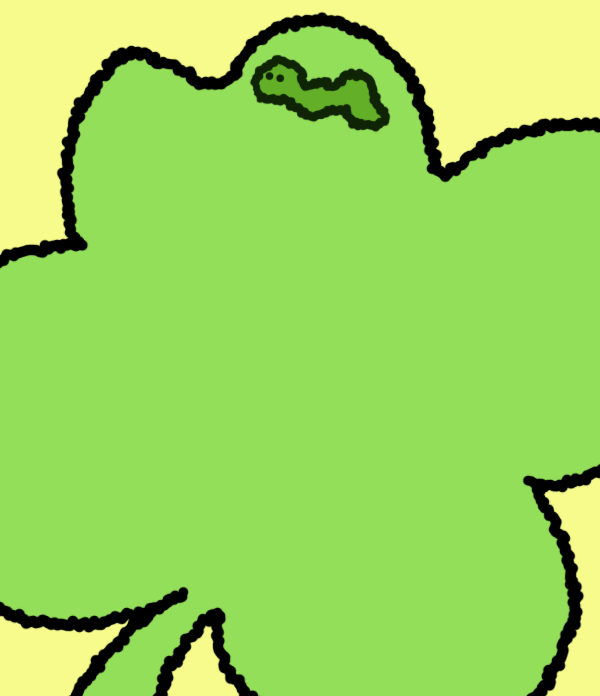
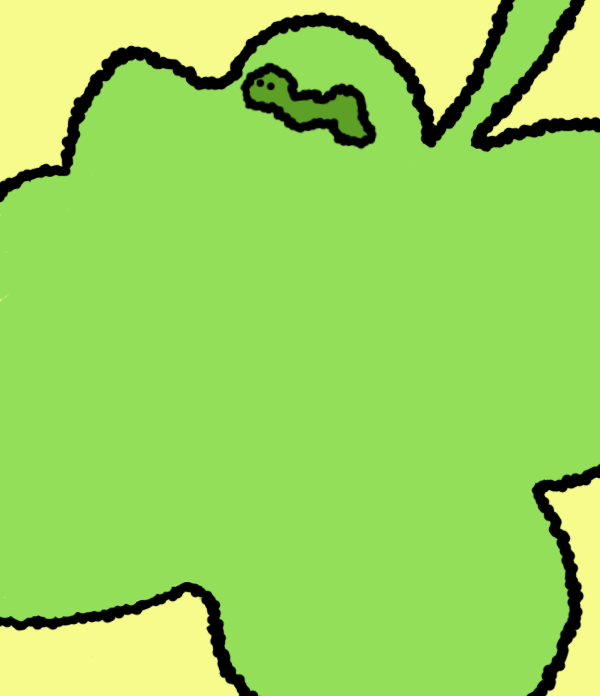
feat: 위로 카드 배경 이미지 업데이트 및 Firebase 중복 초기화 방지
- 위로 카드 BG 이미지를 피그마 디자인 기준 1개로 변경
- card-bg-wiro-1.png 신규 이미지 적용
- Firebase 중복 앱 초기화 방지 처리 추가

diff --git a/src/services/firebase.ts b/src/services/firebase.ts
@@ -1,5 +1,5 @@
-import { initializeApp } from 'firebase/app';
-import { initializeAuth, getReactNativePersistence } from 'firebase/auth';
+import { initializeApp, getApps, getApp } from 'firebase/app';
+import { initializeAuth, getReactNativePersistence, getAuth } from 'firebase/auth';
 import { getFirestore } from 'firebase/firestore';
 import ReactNativeAsyncStorage from '@react-native-async-storage/async-storage';
 
@@ -12,8 +12,9 @@ const firebaseConfig = {
   appId: "1:788744506991:web:c45238597674dbb205479a",
 };
 
-export const app = initializeApp(firebaseConfig);
-export const auth = initializeAuth(app, {
-  persistence: getReactNativePersistence(ReactNativeAsyncStorage),
-});
+const isFirstInit = getApps().length === 0;
+export const app = isFirstInit ? initializeApp(firebaseConfig) : getApp();
+export const auth = isFirstInit
+  ? initializeAuth(app, { persistence: getReactNativePersistence(ReactNativeAsyncStorage) })
+  : getAuth(app);
 export const db = getFirestore(app);

diff --git a/src/components/HomeCard.tsx b/src/components/HomeCard.tsx
@@ -32,7 +32,6 @@ const BG_LAYERS: Record<Exclude<HomeCardType, 'Back'>, ImageSourcePropType[]> = 
   ],
   위로: [
     require('../assets/illustrations/card-bg-wiro-1.png'),
-    require('../assets/illustrations/card-bg-wiro-2.png'),
   ],
   공감: [
     require('../assets/illustrations/card-bg-gongam-1.png'),